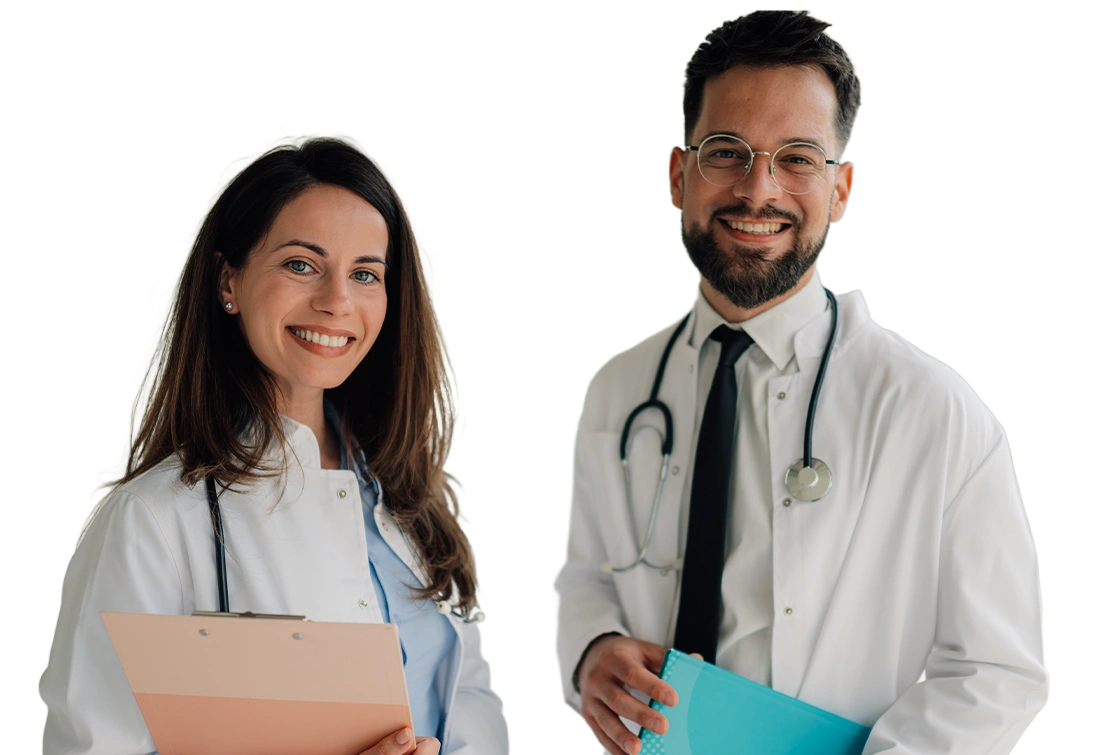
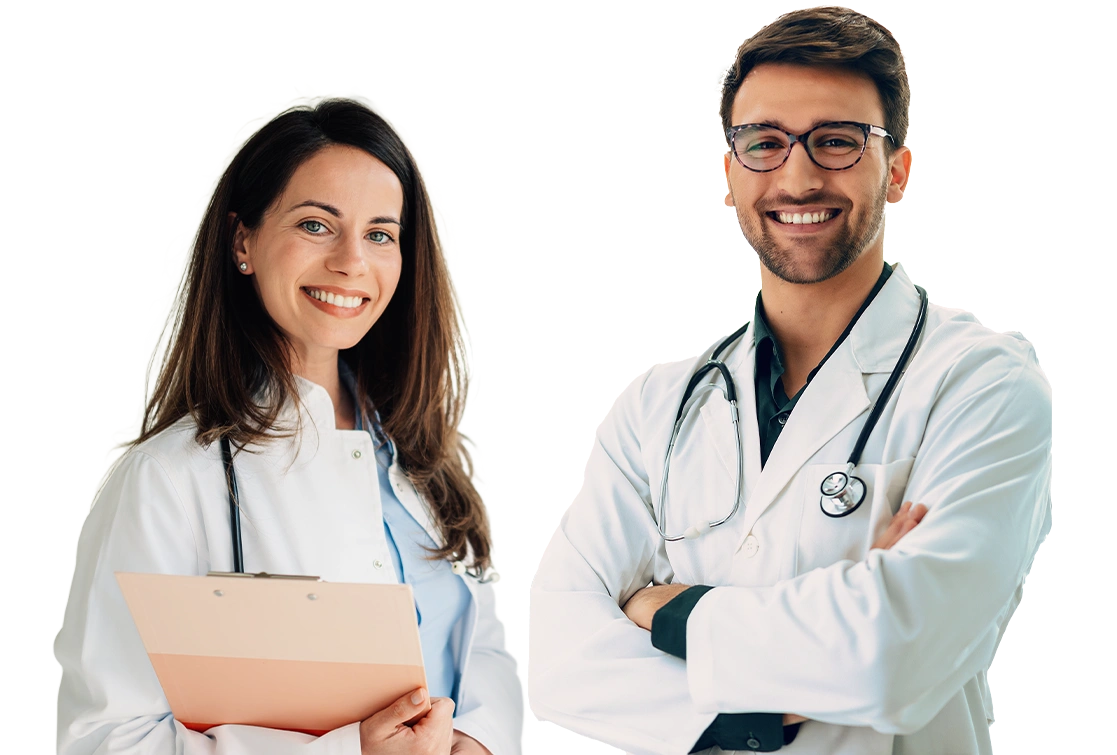
add

diff --git a/index.html b/index.html
@@ -154,7 +154,7 @@
               <div class="col-md-12 pt-md-3 pt-0">
                 <ul class="nptabbs">
                   <li class="active align-self-center" rel="tabb1"><img src="images/01-tab.webp" class="img-fluid" alt="Asthma-icon" width="50" height="50" loading="lazy" />
-                    <br>Hair</li>
+                    <br>Hair Loss <br><small> (Alopecia)</small></li>
                   <li class="align-self-center" rel="tabb2"><img src="images/02-tab.webp" class="img-fluid" alt="COPD-icon" width="50" height="50" loading="lazy" />
                     <br>Alopecia Areata</li>
                   <li class="align-self-center" rel="tabb3"><img src="images/03-tab.webp" class="img-fluid" alt="Recurring-Cough-icon" width="50" height="50" loading="lazy" />
@@ -177,7 +177,7 @@
                       <div class="col-md-4"> <img src="images/hair-model.webp" alt="Psoriasis Model" class="img-fluid mx-auto" width="650" height="500" loading="lazy" /> </div>
                       <div class="col-md-8">
                         <h3>Hair</h3>
-                        <p>Hair loss in patches can be emotionally challenging, as experiencing baldness can be. Primary reasons range from genetic and hormonal factors to medical history, lifestyle choices, & nutritional. Early diagnosis and care are vital. Dr&nbsp;Batra’s<sup>®</sup> offers science-backed personalised homeopathic treatments for all types of hair loss for both men and women.</p>
+                        <p>Hair loss (Alopecia) can be emotionally challenging, as experiencing baldness can be. Genetics and hormonal factors are among the most common causes, followed by life choices, medical history, and nutritional deficiencies. A timely diagnosis and treatment are essential. Both men and women can benefit from Dr&nbsp;Batra’s<sup>®</sup> science-backed personalised homeopathic treatments.</p>
                         <h4>Why Choose Dr&nbsp;Batra’s<sup>®</sup> for Hair Loss?</h4>
                         <p>Customised & proven care that treats the root cause, naturally and effectively.</p>
                         <ul>
@@ -219,7 +219,7 @@
                         <ul>
                           <li>Personalised plans for your hair loss type, with online consultations</li>
                           <li>Expert guidance through doctor-led homeopathy</li>
-                          <li>Emotional support and guidance offered throughout your virtual care journey</li>
+                          <li>Emotional support and guidance</li>
                           <li>Safe, non-invasive solutions with long-term effectiveness</li>
                           <li>90%+ Success rate across 200+ clinics globally</li>
                         </ul>
@@ -232,7 +232,7 @@
                       <div class="col-md-4"> <img src="images/psoriasis-model.webp" alt="Alopecia Model" class="img-fluid mx-auto" width="650" height="500" loading="lazy" /> </div>
                       <div class="col-md-8">
                         <h3>Psoriasis</h3>
-                        <p>Psoriasis affects over 8 million people in the UK. If you’re experiencing red patches, silvery scales, dry skin, and itching, you could be one of them. Treat it from the root with Dr&nbsp;Batra’s<sup>®</sup> s natural and side-effect-free homeopathy, personalised for you.</p>
+                        <p>Psoriasis affects around 2% of people in The UK. If you’re experiencing red patches, silvery scales, dry skin, and itching, you could be one of them. Treat it from the root with Dr&nbsp;Batra’s<sup>®</sup> natural and side-effect free homeopathy, personalised for you.</p>
                         <h4>Why Choose Dr&nbsp;Batra’s<sup>®</sup> for Psoriasis?</h4>
                         <p>Holistic skin healing that works from within, gently and effectively</p>
                         <ul>
@@ -271,16 +271,16 @@
                       <div class="col-md-4"> <img src="images/eczema-model.webp" alt="Child Health Model" class="img-fluid mx-auto" width="650" height="500" loading="lazy" /> </div>
                       <div class="col-md-8">
                         <h3>Eczema </h3>
-                        <p>Eczema causes dry, flaky skin, redness, and intense itching, often triggered by stress, allergens, or weather. In the UK, many experience repeated flare-ups without long-term relief unless underlying triggers are addressed. Homeopathy offers safe, personalised care that boosts immunity and provides long-term relief without side effects.</p>
+                        <p>Eczema causes dry, flaky skin, redness, and intense itching, often triggered by stress, allergens, or weather. In The UK, many experience repeated flare-ups without long-term relief unless underlying triggers are addressed. Homeopathy offers safe, personalised care that boosts immunity and provides long-term relief without side effects.</p>
                         <h4>Why Choose Dr&nbsp;Batra’s<sup>®</sup> for Eczema?</h4>
                         <p>Natural, effective relief for eczema flare-ups</p>
                         <ul>
                           <li>Personalised treatment plans via virtual consultation with expert doctors</li>
                           <li>Reduces itching, inflammation, and visible skin lesions</li>
                           <li>Targets triggers such as allergens, stress, and immune imbalance</li>
-                          <li>Safe, gentle, and free from harsh medications</li>
+                          <li>Safe, gentle, and free of harsh medications</li>
                           <li>96.1% Success rate across 200+ Clinics in India and internationally</li>
-                          <li>Ongoing emotional support & lifestyle guidance with every online consultation </li>
+                          <li>Continued support through emotional care, nutrition, and lifestyle guidance</li>
                         </ul>
                       </div>
                     </div>
@@ -291,7 +291,7 @@
                       <div class="col-md-4"> <img src="images/pcos-model.webp" alt="Hay Fever Model" class="img-fluid mx-auto" width="650" height="500" loading="lazy" /> </div>
                       <div class="col-md-8">
                         <h3>PCOS/PCOD </h3>
-                        <p>PCOS affects 8–13% of women, causing weight gain, irregular periods, acne, hair fall, and fertility issues. Triggered by hormonal imbalances or insulin resistance, it impacts both body and mind. Personalised homeopathic care is now just a virtual consultation away.</p>
+                        <p>PCOS affects 8–18%  of women, causing weight gain, irregular periods, acne, hair fall, and fertility issues. Triggered by hormonal imbalances or insulin resistance, it impacts both body and mind. Personalised homeopathic care is now just a virtual consultation away.</p>
                         <h4> Why Choose Dr&nbsp;Batra’s<sup>®</sup> for PCOS?</h4>
                         <p>Holistic, natural care to restore hormonal balance safely and effectively.</p>
                         <ul>
@@ -300,7 +300,7 @@
                           <li>Supports fertility and regulates menstrual cycles</li>
                           <li>Manages acne, hair fall, and PCOS-related weight issues</li>
                           <li>96% Success rate across 200+ Clinics worldwide</li>
-                          <li>Emotional guidance and follow-ups offered throughout your virtual care journey</li>
+                          <li>Emotional guidance and follow-ups to support your recovery</li>
                         </ul>
                       </div>
                     </div>
@@ -363,7 +363,7 @@
                           <li><img src="images/total-exp.webp" alt="Total Experience" class="img-fluid" width="40" height="40" loading="lazy" /><strong>Total Experience :&nbsp;</strong>
                             <br class="d-block d-md-none"> 40+ Years</li>
                         </ul>
-                        <p>Dr. Lakshmi Engineer is a senior registered homeopathic consultant with over 40+ years of work experience, holding a master's degree in MD (HMM) and a bachelor's degree in BHMS from an internationally renowned institute. She was an associate professor for 10+ years and taught Materia Medica. Dr. Lakshmi's areas of expertise include acne, alopecia, allergic disorders, psoriasis, vitiligo, and women's and children's health. Her patient roster includes more than a thousand patients who have been treated successfully and are satisfied with her professional care. Currently serving as a chief medical consultant at Dr&nbsp;Batra's<sup>®</sup> super speciality clinic, she has been with the clinic since 2005. Her unique clinical and academic experience enables her to take a holistic approach to patient care and achieve optimal results.</p>
+                        <p>Dr. Lakshmi Engineer is a senior registered homeopathic consultant with over 40+ years of work experience, holding a master's degree in MD (HMM) and a bachelor's degree in BHMS from an internationally renowned institute. She was an associate professor for 10+ years and taught Materia Medica. Dr. Lakshmi's areas of expertise include acne, alopecia, allergic disorders, psoriasis, vitiligo, women's and children's health. Her patient roster includes more than a thousand patients who have been treated successfully and are satisfied with her professional care. Currently serving as a chief medical consultant at Dr&nbsp;Batra's<sup>®</sup> super speciality clinic, she has been with the clinic since 2005. Her unique clinical and academic experience enables her to take a holistic approach to patient care and achieve optimal results.</p>
                       </div>
                     </div>
                   </div>
@@ -381,7 +381,7 @@
                           <li><img src="images/total-exp.webp" alt="Total Experience" class="img-fluid" width="40" height="40" loading="lazy" /><strong>Total Experience :&nbsp;</strong>
                             <br class="d-block d-md-none"> 15 Years</li>
                         </ul>
-                        <p>Dr. Deepti is a seasoned homeopathic practitioner with over 15 years of experience in the field. She holds a Bachelor's degree in Homeopathy, along with a specialized diploma in Child Health Management and Skin Care. Throughout her career, Dr. Deepti has developed expertise in treating a wide range of chronic skin conditions such as psoriasis, vitiligo, and atopic dermatitis. In addition, she is skilled in addressing mental health issues, hair problems, and female-related disorders. She has been a valued member of the Dr&nbsp;Batra's<sup>®</sup> Homeopathic Clinic since 2011, where she has consistently delivered effective care and healing to numerous patients, enhancing their quality of life through holistic homeopathic treatments. In all this remarkable years she had contributed interesting cure cases in various ailments.</p>
+                        <p>Dr. Deepti is a seasoned homeopathic practitioner with over 15 years of experience in the field. She holds a Bachelor's degree in Homeopathy, along with a specialised diploma in Child Health Management and Skin Care. Throughout her career, Dr. Deepti has developed expertise in treating a wide range of chronic skin conditions such as psoriasis, vitiligo, and atopic dermatitis. In addition, she is skilled in addressing mental health issues, hair problems, and female-related disorders. She has been a valued member of the Dr&nbsp;Batra's<sup>®</sup> Homeopathic Clinic since 2011, where she has consistently delivered effective care and healing to numerous patients, enhancing their quality of life through holistic homeopathic treatments. In all this remarkable years she has contributed interesting cure cases in various ailments.</p>
                       </div>
                     </div>
                   </div>
@@ -468,7 +468,7 @@
       <div class="container">
         <div class="row align-items-center">
           <div class="col-md-9">
-            <h2>Book Your Free Consultaion Today</h2></div>
+            <h2>Book Your Free Consultation Today</h2></div>
           <div class="col-lg-3">
             <button class="Custom_devider_btn btn-block" onclick="openForm()">Enquiry Now</button>
           </div>
@@ -485,7 +485,7 @@
               <article class="tabbed-content tabs-side">
                 <nav class="tabs">
                   <ul>
-                    <li><a href="#side_tab1" class="active">Hair</a></li>
+                    <li><a href="#side_tab1" class="active">Hair Loss <small>(Alopecia)</small></a></li>
                     <li><a href="#side_tab2">Alopecia Areata</a></li>
                     <li><a href="#side_tab3">AGA Male/Female</a></li>
                     <li><a href="#side_tab5">Psoriasis</a></li>
@@ -502,16 +502,16 @@
                         <div class="accordion" id="accordionExample">
                           <div class="faq-box-cls active">
                             <div id="headingOne_Treatment">
-                              <h2 class="panel-title"><a href="#collapseOnePsoriasis" class="btn btn-link btn-block text-left" type="button" data-toggle="collapse" data-target="#collapseOnePsoriasis" aria-expanded="false" aria-controls="collapseOnePsoriasis">What causes hair loss in the UK?</a></h2></div>
+                              <h2 class="panel-title"><a href="#collapseOnePsoriasis" class="btn btn-link btn-block text-left" type="button" data-toggle="collapse" data-target="#collapseOnePsoriasis" aria-expanded="false" aria-controls="collapseOnePsoriasis">What causes hair loss in The UK?</a></h2></div>
                             <div id="collapseOnePsoriasis" class="collapse show" aria-labelledby="headingOne_Treatment" data-parent="#accordionExample">
-                              <div class="panel-body para-faq">Hair loss in the UK is often due to genetics, hormonal changes, stress, diet, and environmental factors like pollution. Identifying the cause is key to personalised treatment and effective hair regrowth solutions offered by Dr&nbsp;Batra’s<sup>®</sup> expert doctors.</div>
+                              <div class="panel-body para-faq">Hair loss in The UK is often due to genetics, hormonal changes, stress, diet, and environmental factors like pollution. Identifying the cause is key to personalised treatment and effective hair regrowth solutions offered by Dr&nbsp;Batra’s<sup>®</sup> expert doctors.</div>
                             </div>
                           </div>
                           <div class="faq-box-cls">
                             <div id="headingTwo_Treatment">
                               <h2 class="panel-title"><a href="#collapseTwoPsoriasis" class="btn btn-link btn-block text-left collapsed" type="button" data-toggle="collapse" data-target="#collapseTwoPsoriasis" aria-expanded="false" aria-controls="collapseTwoPsoriasis">How does Dr&nbsp;Batra’s<sup>®</sup> treat hair loss? </a></h2></div>
                             <div id="collapseTwoPsoriasis" class="collapse" aria-labelledby="headingTwo_Treatment" data-parent="#accordionExample">
-                              <div class="panel-body para-faq"> Dr&nbsp;Batra’s<sup>®</sup> combines homeopathy with advanced diagnostics and aesthetic treatments to treat hair loss from the root. Treatments are personalised, safe, and designed to stimulate hair follicles and promote natural regrowth without side effects.</div>
+                              <div class="panel-body para-faq"> Dr&nbsp;Batra’s<sup>®</sup> combines homeopathy with advanced diagnostics and aesthetic treatments to treat hair loss from the root. Treatments are personalised, safe, and designed to reduce hair fall, stimulate hair follicles and promote natural regrowth without side effects.</div>
                             </div>
                           </div>
                           <div class="faq-box-cls">
@@ -532,7 +532,7 @@
                             <div id="headingFive_Treatment">
                               <h2 class="panel-title"><a href="#collapseFivePsoriasis" class="btn btn-link btn-block text-left collapsed" type="button" data-toggle="collapse" data-target="#collapseFivePsoriasis" aria-expanded="false" aria-controls="collapseFivePsoriasis">Are Dr&nbsp;Batra’s<sup>®</sup> hair treatments safe?</a></h2></div>
                             <div id="collapseFivePsoriasis" class="collapse" aria-labelledby="headingFive_Treatment" data-parent="#accordionExample">
-                              <div class="panel-body para-faq">Absolutely. Treatments at Dr&nbsp;Batra’s<sup>®</sup> are non-invasive, safe and free from harsh chemicals. They are personalised by expert doctors to ensure safety and suitability for each patient’s unique condition.</div>
+                              <div class="panel-body para-faq">Absolutely. Treatments at Dr&nbsp;Batra’s<sup>®</sup> are non-invasive, safe and free from harsh chemicals. They are personalised by doctors to ensure safety and suitability for each patient’s unique condition.</div>
                             </div>
                           </div>
                           <div class="faq-box-cls border-0">
@@ -608,7 +608,7 @@
                             <div id="headingv_Treatment_one">
                               <h2 class="panel-title"><a href="#collapseOneVitiligo" class="btn btn-link btn-block text-left" type="button" data-toggle="collapse" data-target="#collapseOneVitiligo" aria-expanded="false" aria-controls="collapseOneVitiligo">What is Androgenetic Alopecia (AGA)? </a></h2></div>
                             <div id="collapseOneVitiligo" class="collapse show" aria-labelledby="headingv_Treatment_one" data-parent="#accordionExample_02">
-                              <div class="panel-body para-faq"> AGA, commonly known as male or female pattern baldness, is a hereditary condition causing gradual hair thinning. It affects many people in the UK and typically worsens with age if left untreated.</div>
+                              <div class="panel-body para-faq"> AGA, commonly known as male or female pattern baldness, is a hereditary condition causing gradual hair thinning. It affects many people in The UK and typically worsens with age if left untreated.</div>
                             </div>
                           </div>
                           <div class="faq-box-cls">
@@ -658,9 +658,9 @@
                         <div class="accordion" id="accordionExample_04">
                           <div class="faq-box-cls">
                             <div id="headingPcos_Treatment_One">
-                              <h2 class="panel-title"><a href="#collapseOnePCOD" class="btn btn-link btn-block text-left" type="button" data-toggle="collapse" data-target="#collapseOnePCOD" aria-expanded="false" aria-controls="collapseOnePCOD">What is psoriasis and how common is it in the UK?</a></h2></div>
+                              <h2 class="panel-title"><a href="#collapseOnePCOD" class="btn btn-link btn-block text-left" type="button" data-toggle="collapse" data-target="#collapseOnePCOD" aria-expanded="false" aria-controls="collapseOnePCOD">What is psoriasis and how common is it in The UK?</a></h2></div>
                             <div id="collapseOnePCOD" class="collapse show" aria-labelledby="headingPcos_Treatment_One" data-parent="#accordionExample_04">
-                              <div class="panel-body para-faq"> Psoriasis is a chronic skin condition causing red, scaly patches. It affects around 2-3% of the UK population and can vary in severity from mild to severe.</div>
+                              <div class="panel-body para-faq"> Psoriasis is a chronic skin condition causing red, scaly patches. It affects around 2% of The UK population and can vary in severity from mild to severe.</div>
                             </div>
                           </div>
                           <div class="faq-box-cls">
@@ -688,7 +688,7 @@
                             <div id="headingPcos_Treatment_Five">
                               <h2 class="panel-title"><a href="#collapseFivePCOD" class="btn btn-link btn-block text-left collapsed" type="button" data-toggle="collapse" data-target="#collapseFivePCOD" aria-expanded="false" aria-controls="collapseFivePCOD">Are psoriasis treatments safe for sensitive skin?</a></h2></div>
                             <div id="collapseFivePCOD" class="collapse" aria-labelledby="headingPcos_Treatment_Five" data-parent="#accordionExample_04">
-                              <div class="panel-body para-faq">Yes, many treatments, including homeopathic options, are designed to be gentle and suitable for sensitive skin, avoiding harsh chemicals or steroids.</div>
+                              <div class="panel-body para-faq">Yes, many treatments, including homeopathic options, are designed to be gentle and suitable for sensitive skin, avoiding harsh medications.</div>
                             </div>
                           </div>
                           <div class="faq-box-cls border-0">
@@ -712,7 +712,7 @@
                             <div id="heading_Treatment_PCOS_one">
                               <h2 class="panel-title"><a href="#collapseOnePCOS" class="btn btn-link btn-block text-left" type="button" data-toggle="collapse" data-target="#collapseOnePCOS" aria-expanded="false" aria-controls="collapseOnePCOS">What is vitiligo? </a></h2></div>
                             <div id="collapseOnePCOS" class="collapse show" aria-labelledby="heading_Treatment_PCOS_one" data-parent="#accordionExample_05">
-                              <div class="panel-body para-faq"> Vitiligo is a condition causing white patches on the skin due to pigment loss. It affects around 1% of people in the UK. While it’s not contagious or painful, it can impact confidence and requires early treatment for better management.</div>
+                              <div class="panel-body para-faq"> Vitiligo is a condition that causes white patches on the skin due to pigment loss. It affects around 1% of people in The UK. While it’s not contagious or painful, it can impact confidence and requires early treatment for better management.</div>
                             </div>
                           </div>
                           <div class="faq-box-cls">
@@ -740,7 +740,7 @@
                             <div id="heading_Treatment_PCOS_five">
                               <h2 class="panel-title"><a href="#collapseFivePCOS" class="btn btn-link btn-block text-left collapsed" type="button" data-toggle="collapse" data-target="#collapseFivePCOS" aria-expanded="false" aria-controls="collapseFivePCOS"> Is vitiligo treatment safe for all skin types?</a></h2></div>
                             <div id="collapseFivePCOS" class="collapse" aria-labelledby="heading_Treatment_PCOS_five" data-parent="#accordionExample_05">
-                              <div class="panel-body para-faq">Yes. Treatments are personalised, gentle, and suitable for all skin types. Homeopathic options avoid harsh chemicals, making them a safe choice for sensitive skin.</div>
+                              <div class="panel-body para-faq">Yes. Treatments are personalised, gentle, and suitable for all skin types. </div>
                             </div>
                           </div>
                           <div class="faq-box-cls border-0">
@@ -792,7 +792,7 @@
                             <div id="headingCH_Treatment_five">
                               <h2 class="panel-title"><a href="#collapseFiveChild_Health" class="btn btn-link btn-block text-left collapsed" type="button" data-toggle="collapse" data-target="#collapseFiveChild_Health" aria-expanded="false" aria-controls="collapseFiveChild_Health">Are eczema treatments safe for sensitive skin?</a></h2></div>
                             <div id="collapseFiveChild_Health" class="collapse" aria-labelledby="headingCH_Treatment_five" data-parent="#accordionExample_06">
-                              <div class="panel-body para-faq">Most natural eczema treatments are gentle and suitable for sensitive skin types. They avoid harsh steroids and chemicals, making them a safer option for long-term skin health.</div>
+                              <div class="panel-body para-faq">Most natural eczema treatments are gentle and suitable for sensitive skin types. They are a safer option for long-term skin health.</div>
                             </div>
                           </div>
                           <div class="faq-box-cls border-0">
@@ -837,7 +837,7 @@
                             <div id="headingSP_Treatment_four">
                               <h2 class="panel-title"><a href="#collapseFourSkin_Allergies" class="btn btn-link btn-block text-left collapsed" type="button" data-toggle="collapse" data-target="#collapseFourSkin_Allergies" aria-expanded="false" aria-controls="collapseFourSkin_Allergies">Can PCOS/PCOD be managed naturally?</a></h2></div>
                             <div id="collapseFourSkin_Allergies" class="collapse" aria-labelledby="headingSP_Treatment_four" data-parent="#accordionExample_07">
-                              <div class="panel-body para-faq">Yes. Natural treatments, including homeopathy and lifestyle changes, can help regulate hormones, improve symptoms, and support fertility safely without harsh side effects.</div>
+                              <div class="panel-body para-faq">Yes. Natural treatments, including homeopathy and lifestyle changes, can help regulate hormones, improve symptoms, and support fertility safely without any side effects.</div>
                             </div>
                           </div>
                           <div class="faq-box-cls">
@@ -875,7 +875,7 @@
                             <div id="headingHF_Treatment_two">
                               <h2 class="panel-title"><a href="#collapseTwoHay_Fever" class="btn btn-link btn-block text-left collapsed" type="button" data-toggle="collapse" data-target="#collapseTwoHay_Fever" aria-expanded="false" aria-controls="collapseTwoHay_Fever"> Can acne be treated naturally?</a></h2></div>
                             <div id="collapseTwoHay_Fever" class="collapse" aria-labelledby="headingHF_Treatment_two" data-parent="#accordionExample_08">
-                              <div class="panel-body para-faq">Yes, natural treatments like homeopathy can address underlying causes such as hormonal imbalance and inflammation, offering safe, personalised care without harsh chemicals.</div>
+                              <div class="panel-body para-faq">Yes, natural treatments like homeopathy can address underlying causes such as hormonal imbalance and inflammation, offering safe, personalised care.</div>
                             </div>
                           </div>
                           <div class="faq-box-cls">
